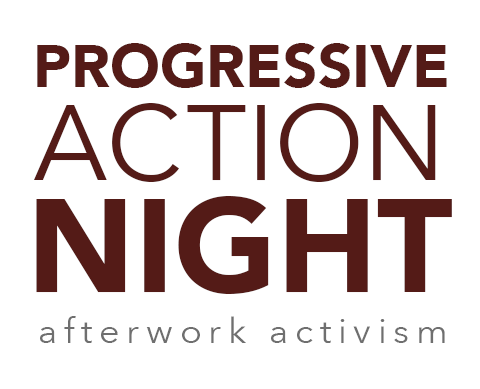
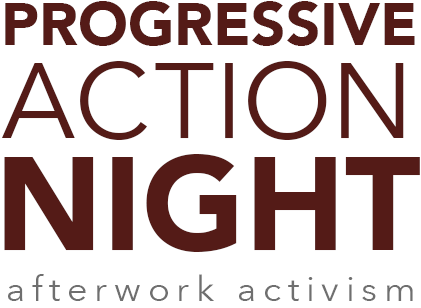
Pan items

diff --git a/css/custom.css b/css/custom.css
@@ -14,7 +14,7 @@ div.container {
 
 .navbar { min-height: 90px; }
 
-.navbar-brand img { height: 40px; }
+.navbar-brand img { height: 80px; }
 
 .navbar-nav > li > a { padding-bottom: 10px; padding-top: 10px; }
 .navbar-nav { padding-top: 60px; }
